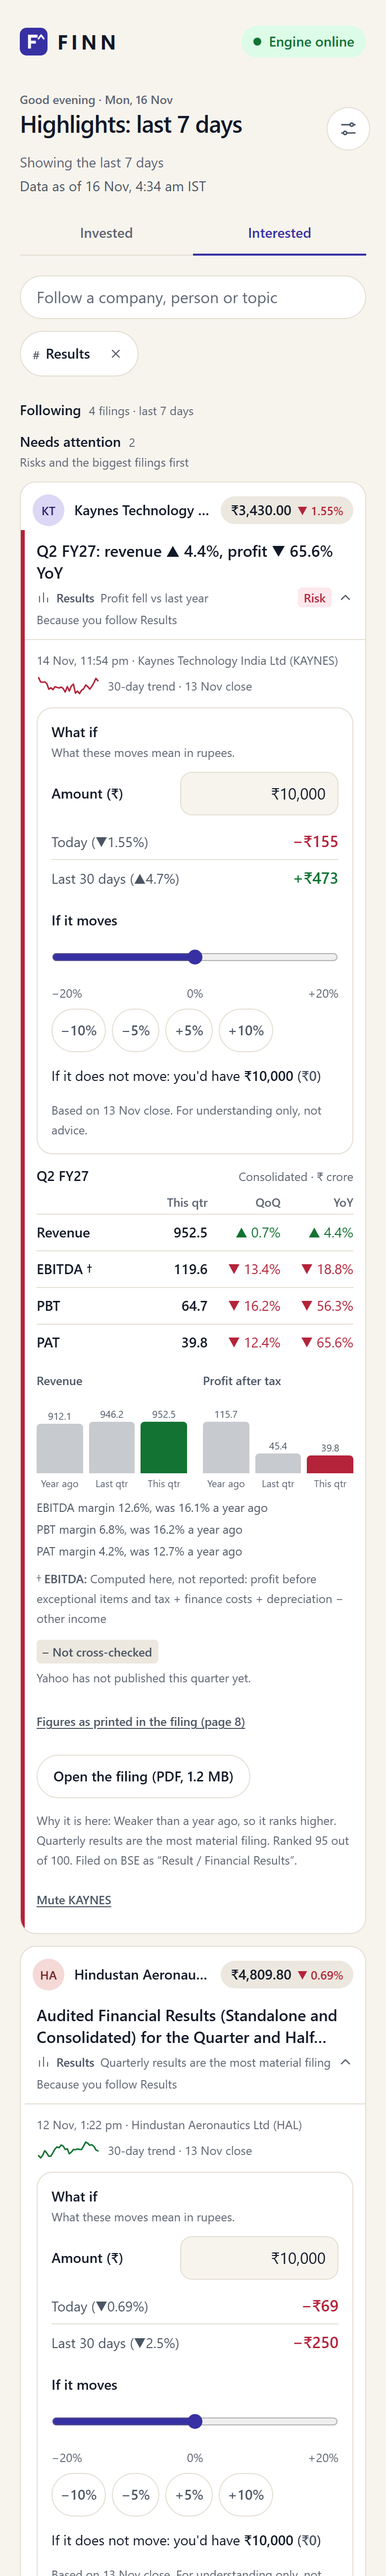
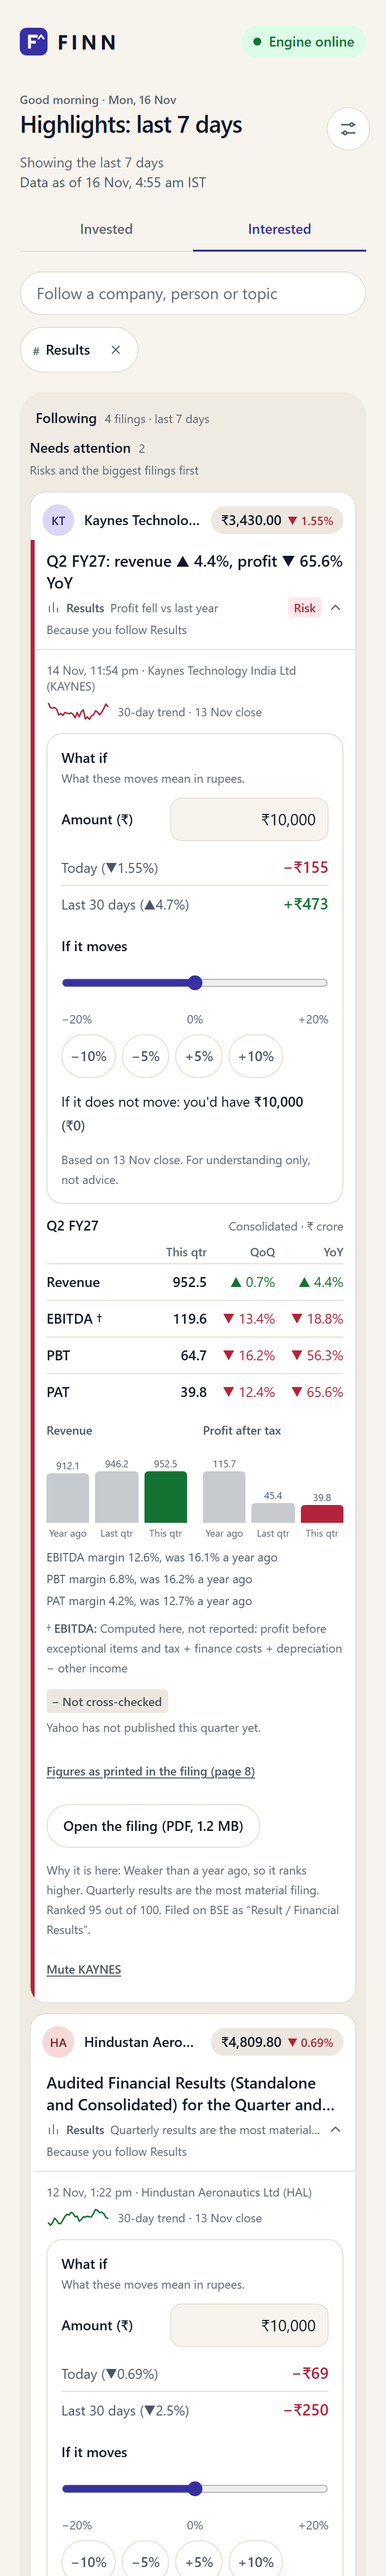
Part E: good and bad as soft tints with a 3px edge
One tone helper (toneBox) and three tint tokens (the status colour mixed into the card surface: 9-10% light, 16% dark) applied to Brief and Following filings, Alerts cards, research promises and company rows, and the portfolio summary and its rows. Quiet day is green. Dark-mode contrast fixed (chip on tint, lighter tertiary text); every text is 4.5:1 or better in light and dark. Checker overflow test now ignores boxes that are clipped by a scroller.

Changed region(s): [[0.0308, 0.0623, 0.9538, 1.0], [0.7385, 0.2492, 0.7692, 0.2804]]

diff --git a/frontend/components/brief/tone.ts b/frontend/components/brief/tone.ts
@@ -1,10 +1,21 @@
 // Full class names so Tailwind can see them. Colour carries meaning only: red bad, amber watch, green good.
-// Every coloured card also gets a text tag, so colour is never the only signal.
+// Every coloured card also gets a text tag, so colour is never the only signal. `tint` is a soft wash of the colour over the card
+// (about 9% in light mode, 16% in dark); `border` is the 3px left edge in the full colour. Neutral and routine cards have neither.
+// `chip` is the tag on a plain card; `chipOnTint` is the same tag on a tinted card, where a second fill on top of the tint would
+// make the coloured word unreadable in dark mode, so it sits on the plain surface with a thin ring in the status colour.
 export const TONE = {
-  bad: { border: "border-l-bad", chip: "bg-bad-bg text-bad", tag: "Risk", text: "text-bad" },
-  watch: { border: "border-l-watch", chip: "bg-watch-bg text-watch", tag: "Watch", text: "text-watch" },
-  good: { border: "border-l-good", chip: "bg-good-bg text-good", tag: "Good", text: "text-good" },
-  neutral: { border: "border-l-line", chip: "", tag: "", text: "text-ink" },
+  bad: { border: "border-l-bad", tint: "bg-bad-tint", chip: "bg-bad-bg text-bad", chipOnTint: "bg-surface text-bad ring-1 ring-inset ring-bad/35", tag: "Risk", text: "text-bad" },
+  watch: { border: "border-l-watch", tint: "bg-watch-tint", chip: "bg-watch-bg text-watch", chipOnTint: "bg-surface text-watch ring-1 ring-inset ring-watch/35", tag: "Watch", text: "text-watch" },
+  good: { border: "border-l-good", tint: "bg-good-tint", chip: "bg-good-bg text-good", chipOnTint: "bg-surface text-good ring-1 ring-inset ring-good/35", tag: "Good", text: "text-good" },
+  neutral: { border: "border-l-line", tint: "", chip: "", chipOnTint: "", tag: "", text: "text-ink" },
 } as const;
 
 export type Tone = keyof typeof TONE;
+
+/**
+ * The look of a card by its tone: a 3px left edge and a soft tint in the status colour, or, for a neutral card, no tint and a
+ * transparent edge (so the text does not shift). Pass `plain` for the background a neutral card should have.
+ */
+export function toneBox(tone: Tone, plain = ""): string {
+  return tone === "neutral" ? `border-l-[3px] border-l-transparent ${plain}`.trim() : `border-l-[3px] ${TONE[tone].border} ${TONE[tone].tint}`;
+}

diff --git a/frontend/components/research/RecordView.tsx b/frontend/components/research/RecordView.tsx
@@ -2,7 +2,7 @@
 
 import { useId, useState } from "react";
 import { Chevron } from "@/components/brief/Chevron";
-import { TONE } from "@/components/brief/tone";
+import { TONE, toneBox } from "@/components/brief/tone";
 import { AskBox } from "@/components/research/AskBox";
 import { VerdictBar } from "@/components/ui/Charts";
 import { Avatar, PriceLine } from "@/components/ui/Price";
@@ -76,10 +76,10 @@ function PromiseCard({ promise, docs, card }: { promise: TrackedPromise; docs: M
 
   return (
     <article className="relative min-w-0 overflow-hidden rounded-2xl border border-line bg-surface">
-      <div className={`border-l-4 ${look.tone === "neutral" ? "border-l-transparent" : tone.border}`}>
+      <div className={toneBox(look.tone)}>
         <button type="button" aria-expanded={open} aria-controls={panelId} onClick={() => setOpen((v) => !v)} className="block min-h-11 w-full min-w-0 px-3 py-2.5 text-left">
           <span className="flex min-w-0 items-center gap-2 text-xs">
-            <span className={`shrink-0 whitespace-nowrap rounded px-1.5 py-0.5 font-semibold ${tone.chip || "bg-line text-ink-soft"}`}>{statusLabel(promise.verdict)}</span>
+            <span className={`shrink-0 whitespace-nowrap rounded px-1.5 py-0.5 font-semibold ${tone.chipOnTint || "bg-line text-ink-soft"}`}>{statusLabel(promise.verdict)}</span>
             <span className="min-w-0 flex-1 truncate font-medium text-ink-soft">{promiseTopic(promise)}</span>
             <span className="shrink-0 text-ink-faint">
               <Chevron open={open} />
@@ -319,7 +319,7 @@ export function RecordView({ record }: { record: ResearchRecord; source: "shippe
       )}
 
       {!noDocuments && tooFewCalls(record) && (
-        <section className="rounded-2xl border border-line border-l-4 border-l-watch bg-surface p-4" role="note">
+        <section className={`rounded-2xl border border-line p-4 ${toneBox("watch")}`} role="note">
           <h3 className="text-sm font-semibold">{fewCallsText(record)}</h3>
           <p className="mt-1 text-sm leading-6 text-ink-soft">A promise is judged by what a later call says, so FINN needs at least two. What management said is below, word for word with its page.</p>
         </section>

diff --git a/frontend/components/brief/PortfolioSummary.tsx b/frontend/components/brief/PortfolioSummary.tsx
@@ -2,6 +2,7 @@
 
 import { useId, useMemo, useState } from "react";
 import { Chevron } from "@/components/brief/Chevron";
+import { toneBox, type Tone } from "@/components/brief/tone";
 import { useAllBriefPrices } from "@/components/brief/PricesContext";
 import { shortName } from "@/lib/headline";
 import { arrowInr, arrowInrPct, directionOf, formatInr, plainPct, quoteOf, summarize, useInvested, type Direction, type Summary } from "@/lib/invested";
@@ -9,6 +10,7 @@ import { priceView } from "@/lib/prices";
 import type { BriefCompany } from "@/lib/types";
 
 const TEXT: Record<Direction, string> = { good: "text-good", bad: "text-bad", flat: "text-ink" };
+const TONE_OF: Record<Direction, Tone> = { good: "good", bad: "bad", flat: "neutral" };
 
 function Figure({ label, children, tone = "flat" }: { label: string; children: React.ReactNode; tone?: Direction }) {
   return (
@@ -23,7 +25,7 @@ function Figure({ label, children, tone = "flat" }: { label: string; children: R
 function Row({ row, name, basis }: { row: Summary["rows"][number]; name: string; basis: Summary["weightBasis"] }) {
   const pnlTone = row.pnl === null ? "flat" : directionOf(row.pnl);
   return (
-    <li className="min-w-0 px-4 py-2.5">
+    <li className={`min-w-0 px-4 py-2.5 ${toneBox(TONE_OF[pnlTone])}`}>
       <div className="flex min-w-0 items-baseline justify-between gap-3">
         <span className="min-w-0 truncate text-sm font-medium">
           {name}
@@ -71,7 +73,8 @@ export function PortfolioSummary({ companies }: { companies: readonly BriefCompa
   const todayTone = summary.today === null ? "flat" : directionOf(summary.today);
 
   return (
-    <section aria-label="My portfolio" className="mb-4 min-w-0 overflow-hidden rounded-2xl border border-line bg-surface" data-testid="portfolio-summary">
+    <section aria-label="My portfolio" className={`mb-4 min-w-0 overflow-hidden rounded-2xl border border-line ${toneBox(TONE_OF[overallTone === "flat" ? todayTone : overallTone], "bg-surface")}`}
+      data-testid="portfolio-summary">
       <button
         type="button"
         aria-expanded={open}

diff --git a/frontend/components/brief/InterestedTab.tsx b/frontend/components/brief/InterestedTab.tsx
@@ -3,7 +3,7 @@
 import Link from "next/link";
 import { useId, useMemo, useState } from "react";
 import { Chevron } from "@/components/brief/Chevron";
-import { TONE } from "@/components/brief/tone";
+import { TONE, toneBox } from "@/components/brief/tone";
 import { FollowSection } from "@/components/follow/FollowSection";
 import { BottomSheet } from "@/components/ui/BottomSheet";
 import { SectionBox } from "@/components/ui/SectionBox";
@@ -48,7 +48,7 @@ function CompanyRow({ entry, onInvest }: { entry: IndexEntry; onInvest: (name: s
         aria-expanded={open}
         aria-controls={panelId}
         onClick={() => setOpen((value) => !value)}
-        className={`block min-h-11 w-full min-w-0 border-l-4 px-3 py-3 text-left ${card && scorecardTone(card) !== "neutral" ? tone.border : "border-l-transparent"}`}
+        className={`block min-h-11 w-full min-w-0 px-3 py-3 text-left ${toneBox(card ? scorecardTone(card) : "neutral")}`}
       >
         <span className="flex min-w-0 items-center gap-2.5">
           <Avatar symbol={entry.symbol} name={entry.name} size={32} />
@@ -71,7 +71,7 @@ function CompanyRow({ entry, onInvest }: { entry: IndexEntry; onInvest: (name: s
           <span className="min-w-0 flex-1 truncate">
             {card ? promiseCounts(card) : entry.status === "statements_only" ? "What management said is in the research" : "Open the research to read the filings"}
           </span>
-          {tone.tag && card && <span className={`shrink-0 whitespace-nowrap rounded px-1.5 font-medium ${tone.chip}`}>{tone.tag}</span>}
+          {tone.tag && card && <span className={`shrink-0 whitespace-nowrap rounded px-1.5 font-medium ${tone.chipOnTint}`}>{tone.tag}</span>}
           <span className="shrink-0">
             <Chevron open={open} />
           </span>

diff --git a/frontend/components/brief/FilingRow.tsx b/frontend/components/brief/FilingRow.tsx
@@ -6,7 +6,7 @@ import { ManagementCardView } from "@/components/brief/ManagementCardView";
 import { ResultsCardView } from "@/components/brief/ResultsCardView";
 import { useBecause } from "@/components/follow/BecauseContext";
 import { useBriefPrices } from "@/components/brief/PricesContext";
-import { TONE } from "@/components/brief/tone";
+import { TONE, toneBox } from "@/components/brief/tone";
 import { CategoryIcon } from "@/components/ui/Icons";
 import { PriceTrend } from "@/components/ui/Price";
 import { WhatIf } from "@/components/WhatIf";
@@ -50,7 +50,7 @@ export function FilingRow({ item, referenceIso, size }: { item: Item; referenceI
   const cardReplacesBody = item.card?.status === "ok" || (item.card?.type === "results" && item.card.status === "partial");
 
   return (
-    <div className={`border-l-4 ${item.tone === "neutral" ? "border-l-transparent" : tone.border}`}>
+    <div className={toneBox(item.tone)}>
       <button
         type="button"
         aria-expanded={open}
@@ -65,7 +65,7 @@ export function FilingRow({ item, referenceIso, size }: { item: Item; referenceI
           </span>
           <span className="shrink-0 whitespace-nowrap font-medium text-ink-soft">{shortCategory(item)}</span>
           <span className="min-w-0 flex-1 truncate">{shortWhy(item)}</span>
-          {tone.tag && <span className={`shrink-0 whitespace-nowrap rounded px-1.5 font-medium ${tone.chip}`}>{tone.tag}</span>}
+          {tone.tag && <span className={`shrink-0 whitespace-nowrap rounded px-1.5 font-medium ${tone.chipOnTint}`}>{tone.tag}</span>}
           <span className="shrink-0 text-ink-faint">
             <Chevron open={open} />
           </span>

diff --git a/frontend/app/globals.css b/frontend/app/globals.css
@@ -25,6 +25,10 @@
   --bad-bg: #fde8ec;
   --watch: #92400e;
   --watch-bg: #fef3c7;
+  /* Soft card tints: the status colour mixed into the card surface, never a fill. About 9% in light mode. */
+  --good-tint: color-mix(in srgb, var(--good) 9%, var(--surface));
+  --bad-tint: color-mix(in srgb, var(--bad) 9%, var(--surface));
+  --watch-tint: color-mix(in srgb, var(--watch) 10%, var(--surface));
 }
 
 @media (prefers-color-scheme: dark) {
@@ -32,7 +36,7 @@
     /* Dark: a soft indigo-tinted charcoal page (not near-black) with cards one step lighter. */
     --ink: #f1f2f8;
     --ink-soft: #c9cce0;
-    --ink-faint: #a3a8c3;
+    --ink-faint: #b3b8d1;
     --page: #1c1f2e;
     --surface: #272b3d;
     --backdrop: #151724;
@@ -47,6 +51,10 @@
     --bad-bg: rgba(255, 120, 140, 0.14);
     --watch: #fbbf24;
     --watch-bg: rgba(251, 191, 36, 0.14);
+    /* In dark mode a tint needs a little more to show: about 16%. */
+    --good-tint: color-mix(in srgb, var(--good) 16%, var(--surface));
+    --bad-tint: color-mix(in srgb, var(--bad) 16%, var(--surface));
+    --watch-tint: color-mix(in srgb, var(--watch) 16%, var(--surface));
   }
 }
 
@@ -68,6 +76,9 @@
   --color-bad-bg: var(--bad-bg);
   --color-watch: var(--watch);
   --color-watch-bg: var(--watch-bg);
+  --color-good-tint: var(--good-tint);
+  --color-bad-tint: var(--bad-tint);
+  --color-watch-tint: var(--watch-tint);
   --font-sans: ui-sans-serif, system-ui, -apple-system, "Segoe UI", Roboto, "Helvetica Neue", Arial, sans-serif;
 }
 

diff --git a/frontend/components/research/ResearchScreen.tsx b/frontend/components/research/ResearchScreen.tsx
@@ -4,10 +4,11 @@ import Link from "next/link";
 import { useRouter, useSearchParams } from "next/navigation";
 import { useState } from "react";
 import { CompanyResearch } from "@/components/research/CompanyResearch";
+import { toneBox } from "@/components/brief/tone";
 import { VerdictBar } from "@/components/ui/Charts";
 import { Avatar, PriceLine } from "@/components/ui/Price";
 import { shortName } from "@/lib/headline";
-import { deliveredShort, documentsLine, isValidTicker, normaliseTicker, type IndexEntry, type ResearchIndex, type ResearchRecord } from "@/lib/research";
+import { deliveredShort, documentsLine, isValidTicker, normaliseTicker, scorecardTone, type IndexEntry, type ResearchIndex, type ResearchRecord } from "@/lib/research";
 import { useJson } from "@/lib/useJson";
 import { useCompanyPrices } from "@/lib/useSessions";
 
@@ -25,7 +26,7 @@ function CompanyRow({ entry }: { entry: IndexEntry }) {
   const headline = deliveredShort(card) ?? "Not enough calls yet";
 
   return (
-    <Link href={`/research?symbol=${encodeURIComponent(entry.symbol)}`} className="block min-h-14 min-w-0 px-4 py-3">
+    <Link href={`/research?symbol=${encodeURIComponent(entry.symbol)}`} className={`block min-h-14 min-w-0 px-4 py-3 ${toneBox(scorecardTone(card))}`}>
       <span className="flex min-w-0 items-center gap-2.5">
         <Avatar symbol={entry.symbol} name={entry.name} size={32} />
         <span className="min-w-0 flex-1 truncate text-sm font-semibold">{shortName(entry.name)}</span>

diff --git a/frontend/components/alerts/SignalCard.tsx b/frontend/components/alerts/SignalCard.tsx
@@ -2,7 +2,7 @@
 
 import { useId, useState } from "react";
 import { Chevron } from "@/components/brief/Chevron";
-import { TONE } from "@/components/brief/tone";
+import { TONE, toneBox } from "@/components/brief/tone";
 import { moveWords, type SignalAlert } from "@/lib/alerts";
 import { CategoryIcon } from "@/components/ui/Icons";
 import { Avatar, PriceChip } from "@/components/ui/Price";
@@ -26,7 +26,7 @@ export function SignalCard({ alert, reasons, note }: { alert: SignalAlert; reaso
         : `${alert.symbol} traded ${ratio.toFixed(1)}× its usual volume`;
 
   return (
-    <article className={`rounded-2xl border border-l-4 border-line ${tone.border} bg-surface`}>
+    <article className={`rounded-2xl border border-line ${toneBox(alert.tone, "bg-surface")}`}>
       <button
         type="button"
         aria-expanded={open}
@@ -48,7 +48,7 @@ export function SignalCard({ alert, reasons, note }: { alert: SignalAlert; reaso
           <PriceChip sessions={alert.sessions} />
         </span>
         <span className="mt-2 flex items-center gap-2 text-xs text-ink-faint">
-          <span className={`rounded px-1.5 py-0.5 font-medium ${tone.chip}`}>{tone.tag}</span>
+          <span className={`rounded px-1.5 py-0.5 font-medium ${tone.chipOnTint}`}>{tone.tag}</span>
           <time dateTime={s.day}>{formatDay(s.day)}</time>
         </span>
         <span className="mt-1 block text-base font-semibold leading-snug">{headline}</span>

diff --git a/frontend/lib/brief.ts b/frontend/lib/brief.ts
@@ -65,7 +65,7 @@ export function companySections(groups: Groups): { needs: CompanyGroup[]; worth:
   return { needs: all.filter((g) => g.top >= HIGH_MIN), worth: all.filter((g) => g.top < HIGH_MIN) };
 }
 
-export type SummaryPart = { text: string; tone?: "bad" };
+export type SummaryPart = { text: string; tone?: "bad" | "good" };
 
 /**
  * The one line under the Brief's heading, worked out in code from the filings in the window (never by a model). What applies is
@@ -76,7 +76,7 @@ export type SummaryPart = { text: string; tone?: "bad" };
 export function summaryParts(groups: Groups, companyCount: number): SummaryPart[] {
   const material = [...groups.high, ...groups.medium];
   if (material.length === 0) {
-    return [{ text: `Quiet day: nothing needs action across your ${companyCount} ${companyCount === 1 ? "company" : "companies"}` }];
+    return [{ text: `Quiet day: nothing needs action across your ${companyCount} ${companyCount === 1 ? "company" : "companies"}`, tone: "good" }];
   }
   const risks = material.filter((item) => item.tone === "bad").length;
   const filed = new Set(material.map((item) => item.symbol)).size;

diff --git a/frontend/lib/tone.test.ts b/frontend/lib/tone.test.ts
@@ -1,0 +1,18 @@
+import { describe, expect, it } from "vitest";
+import { TONE, toneBox } from "@/components/brief/tone";
+
+describe("the look of a card by its tone", () => {
+  it("gives a risk a red 3px edge and a red tint, a win green, a watch amber", () => {
+    expect(toneBox("bad")).toBe("border-l-[3px] border-l-bad bg-bad-tint");
+    expect(toneBox("good")).toBe("border-l-[3px] border-l-good bg-good-tint");
+    expect(toneBox("watch")).toBe("border-l-[3px] border-l-watch bg-watch-tint");
+  });
+  it("gives a neutral card no tint and a transparent edge, and keeps the plain background it was given", () => {
+    expect(toneBox("neutral")).toBe("border-l-[3px] border-l-transparent");
+    expect(toneBox("neutral", "bg-surface")).toBe("border-l-[3px] border-l-transparent bg-surface");
+  });
+  it("always pairs colour with a word, so colour is never the only signal", () => {
+    expect([TONE.bad.tag, TONE.watch.tag, TONE.good.tag]).toEqual(["Risk", "Watch", "Good"]);
+    expect(TONE.neutral.tag).toBe("");
+  });
+});

diff --git a/frontend/lib/brief.test.ts b/frontend/lib/brief.test.ts
@@ -205,3 +205,15 @@ describe("effectiveWindow (the Brief never opens on an empty day if a wider wind
     expect(effectiveWindow(b, 24, false, ["ITC"])).toEqual({ hours: 72, widened: true });
   });
 });
+
+describe("the summary line's colours", () => {
+  const groups = (items: Item[]) => groupItems(items);
+  it("a quiet day is good news, so it is green; risks are red", async () => {
+    const { summaryParts } = await import("@/lib/brief");
+    expect(summaryParts(groups([]), 18)).toEqual([{ text: "Quiet day: nothing needs action across your 18 companies", tone: "good" }]);
+    const risk = item({ id: "r", priority: 90, tone: "bad", published_at: hoursBefore(2) });
+    expect(summaryParts(groups([risk]), 18)).toEqual([{ text: "1 risk to review", tone: "bad" }]);
+    const worth = item({ id: "w", priority: 60, published_at: hoursBefore(2) });
+    expect(summaryParts(groups([worth]), 18)).toEqual([{ text: "1 filing worth a look" }]); // neutral: no colour
+  });
+});

diff --git a/frontend/components/brief/MorningBrief.tsx b/frontend/components/brief/MorningBrief.tsx
@@ -45,7 +45,7 @@ export function MorningBrief() {
         {summary.map((part, i) => (
           <span key={part.text}>
             {i > 0 && <span className="text-ink-faint"> · </span>}
-            <span className={part.tone === "bad" ? "text-bad" : undefined}>{part.text}</span>
+            <span className={part.tone === "bad" ? "text-bad" : part.tone === "good" ? "text-good" : undefined}>{part.text}</span>
           </span>
         ))}
       </p>
